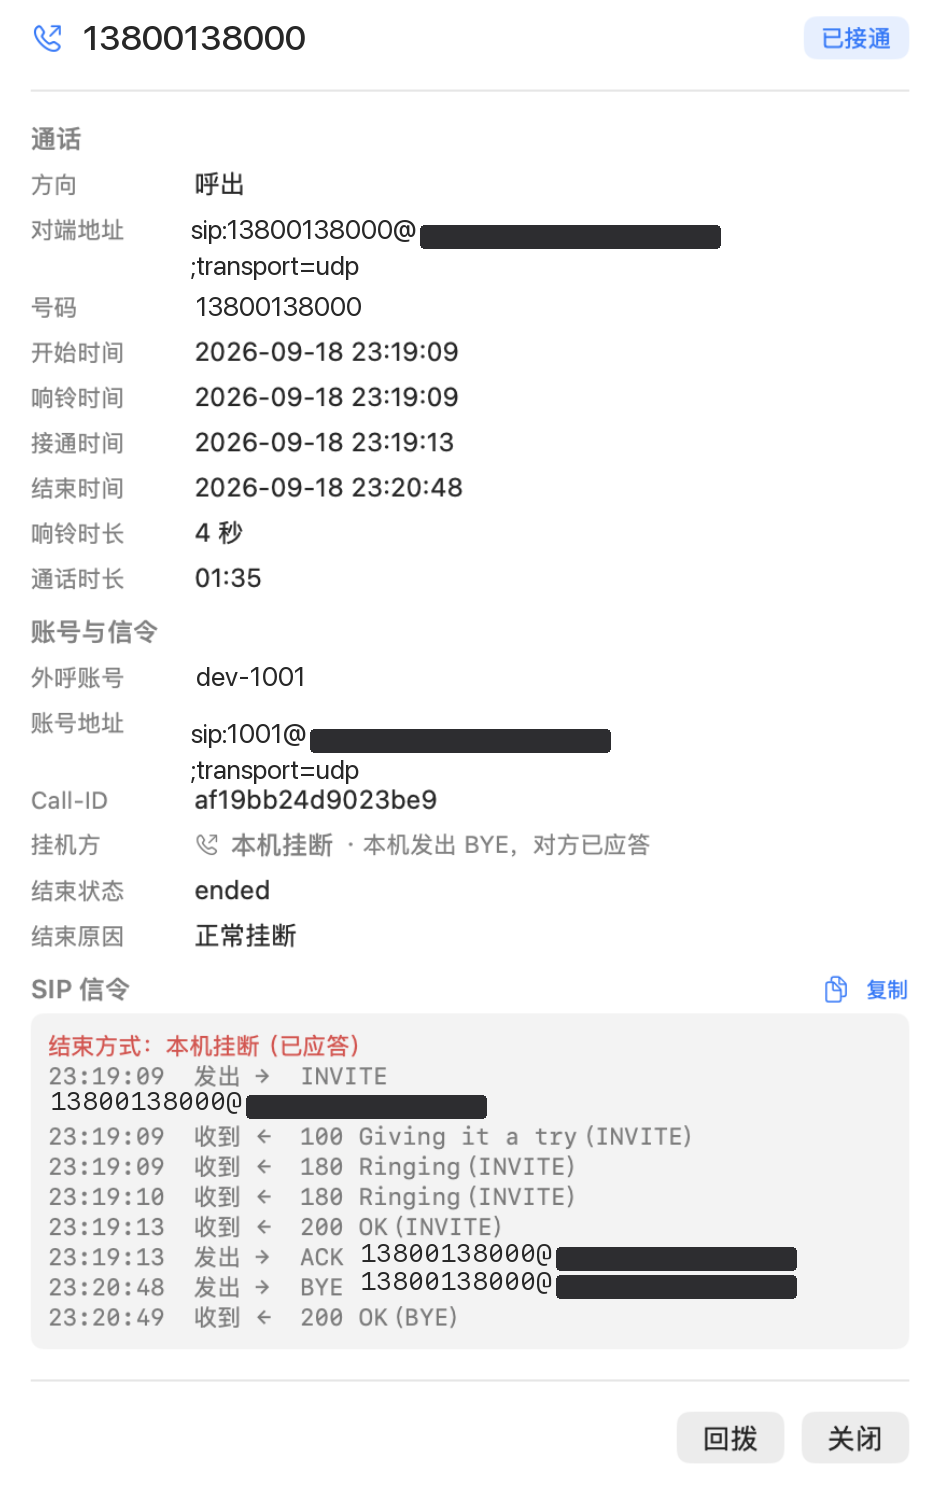
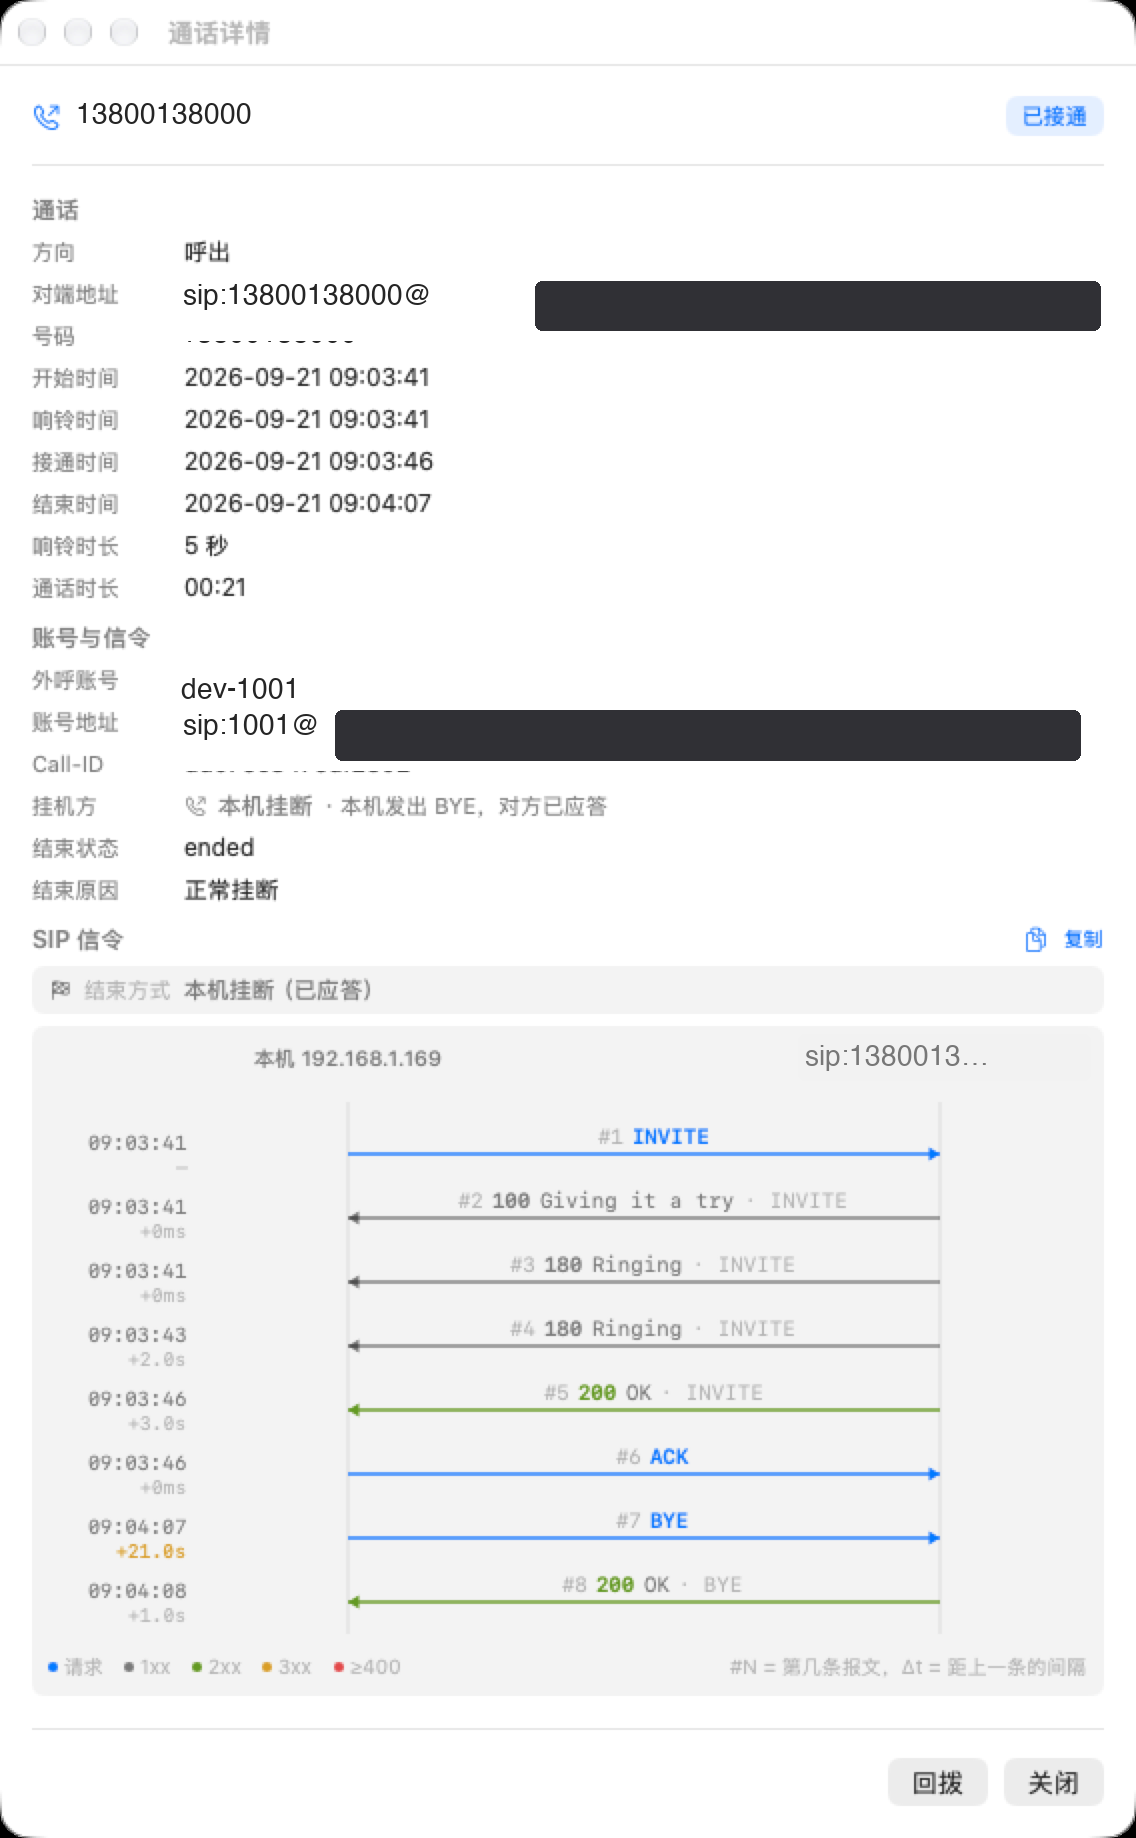
feat: update web

diff --git a/web/index.html b/web/index.html
@@ -75,6 +75,7 @@
   .hero h1{font-size:clamp(34px,6vw,50px);font-weight:700;margin:24px 0 0}
   .hero .tagline{font-size:clamp(16px,2.4vw,19px);color:var(--ink-2);max-width:640px;margin:14px auto 0}
   .chips{display:flex;flex-wrap:wrap;gap:8px;justify-content:center;margin:24px 0 0}
+  .version-chip{background:var(--ink);border-color:var(--ink);color:var(--bg);font-weight:600}
   .chip{font-size:13px;color:var(--ink-2);background:var(--bg-soft);border:1px solid var(--line);border-radius:999px;padding:4px 12px}
   .cta{display:flex;flex-wrap:wrap;gap:12px;justify-content:center;align-items:center;margin:30px 0 0}
   .btn{
@@ -313,7 +314,7 @@
       <a href="#features" class="opt">特性</a>
       <a href="#trouble" class="opt">排障</a>
       <a href="#faq" class="opt">常见问题</a>
-      <a class="pill" href="https://github.com/zpj80231/breephone/releases/latest">下载</a>
+      <a class="pill js-download" href="https://github.com/zpj80231/breephone/releases/download/v0.4.0/BreePhone-0.4.0.dmg" download>下载</a>
     </nav>
   </div>
 </header>
@@ -329,18 +330,19 @@
     也没有常驻后台的进程占着内存。
   </p>
   <div class="chips">
-    <span class="chip">macOS 13+</span>
-    <span class="chip">Apple Silicon</span>
     <span class="chip">原生 macOS 应用</span>
-    <span class="chip">多账号</span>
-    <span class="chip">网络自检</span>
+    <span class="chip">现代化 UI</span>
+    <span class="chip">Apple Silicon</span>
+    <span class="chip">多账号共存</span>
+    <span class="chip">通话网络自检</span>
+    <span class="chip">自带 SIP 信令</span>
   </div>
   <div class="cta">
-    <a class="btn btn-primary" href="https://github.com/zpj80231/breephone/releases/latest">
+    <a class="btn btn-primary js-download" href="https://github.com/zpj80231/breephone/releases/download/v0.4.0/BreePhone-0.4.0.dmg" download>
       <svg viewBox="0 0 16 16" fill="none" stroke="currentColor" stroke-width="1.6" stroke-linecap="round" stroke-linejoin="round" aria-hidden="true">
         <path d="M8 1.8v8.4M4.8 7.2 8 10.4l3.2-3.2M2.2 12.2v1.6h11.6v-1.6"/>
       </svg>
-      下载最新版本
+      下载最新版本 <span data-release-label>v0.4.0</span>
     </a>
     <a class="btn btn-ghost" href="https://github.com/zpj80231/breephone/releases">全部版本</a>
   </div>
@@ -515,7 +517,7 @@
       <div class="step">
         <div class="n">1</div>
         <h3>下载 DMG</h3>
-        <p>从 <a href="https://github.com/zpj80231/breephone/releases/latest">最新版本</a> 下载
+        <p>从 <a class="js-download" href="https://github.com/zpj80231/breephone/releases/download/v0.4.0/BreePhone-0.4.0.dmg" download>最新版本（<span data-release-label>v0.4.0</span>）</a> 下载
            <code>BreePhone-x.y.z.dmg</code>。只出了 Apple Silicon 版。</p>
       </div>
       <div class="step">
@@ -653,11 +655,11 @@ bree://hangup</pre>
     <div class="dl">
       <h2>下载 BreePhone</h2>
       <p>免费使用。发现新版本时应用会提示你，不会偷偷替换自己。</p>
-      <a class="btn btn-primary" href="https://github.com/zpj80231/breephone/releases/latest">
+      <a class="btn btn-primary js-download" href="https://github.com/zpj80231/breephone/releases/download/v0.4.0/BreePhone-0.4.0.dmg" download>
         <svg viewBox="0 0 16 16" fill="none" stroke="currentColor" stroke-width="1.6" stroke-linecap="round" stroke-linejoin="round" aria-hidden="true">
           <path d="M8 1.8v8.4M4.8 7.2 8 10.4l3.2-3.2M2.2 12.2v1.6h11.6v-1.6"/>
         </svg>
-        前往最新版本
+        直接下载 <span data-release-label>v0.4.0</span>
       </a>
       <p class="req">需要 macOS 13（Ventura）或更高 · Apple Silicon</p>
     </div>
@@ -679,4 +681,29 @@ bree://hangup</pre>
 </footer>
 
 </body>
+<script>
+  // 页面保持纯静态，同时从 Releases API 找到最新的 arm64 DMG；API 不可用时使用当前发布版兜底。
+  (async function () {
+    const fallback = {
+      version: 'v0.4.0',
+      url: 'https://github.com/zpj80231/breephone/releases/download/v0.4.0/BreePhone-0.4.0.dmg'
+    };
+    try {
+      const response = await fetch('https://api.github.com/repos/zpj80231/breephone/releases/latest', { headers: { Accept: 'application/vnd.github+json' } });
+      if (!response.ok) throw new Error('release lookup failed');
+      const release = await response.json();
+      const asset = (release.assets || []).find(item => /BreePhone-.*\.dmg$/i.test(item.name));
+      if (release.tag_name && asset) {
+        fallback.version = release.tag_name;
+        fallback.url = asset.browser_download_url;
+      }
+    } catch (_) {}
+    document.querySelectorAll('.js-download').forEach(link => {
+      link.href = fallback.url;
+      link.setAttribute('download', '');
+    });
+    document.querySelectorAll('[data-release-version]').forEach(el => el.textContent = '当前最新 ' + fallback.version);
+    document.querySelectorAll('[data-release-label]').forEach(el => el.textContent = fallback.version);
+  }());
+</script>
 </html>
